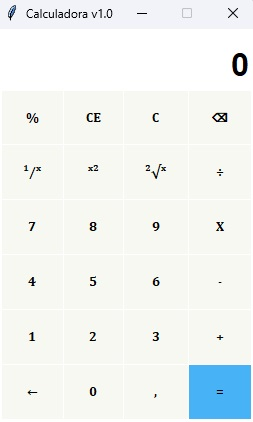
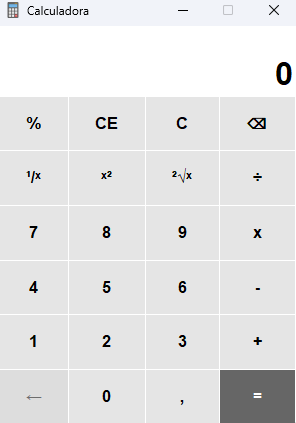
Correções na funcionalidade da calculadora

diff --git a/app/calculator.py b/app/calculator.py
@@ -1,5 +1,5 @@
 import tkinter as tk
-
+import re
 from .core import KEYBOARD
 from .core import Settings
 from .core import Calculator
@@ -9,7 +9,8 @@ class Application(tk.Tk):
         tk.Tk.__init__(self)
         self.calculate = Calculator()
         self.set = Settings()
-        self.setup(self.set.main.title, self.set.main.width, self.set.main.height)
+        self.setup()
+        self.key_up = []
 
         main_frame = tk.Frame(bg=self.set.main.background)
         main_frame.pack(side=tk.TOP, expand=True, fill=tk.BOTH)
@@ -36,57 +37,59 @@ class Application(tk.Tk):
                 self.btns[f'btn_{str(KEYBOARD[r][c])}'].grid(row=r+1, column=c, padx=(1, 0), pady=(1, 0), sticky=tk.NSEW)
 
         self.btns['btn_='].config(cnf=self.set.button_equal)
+        # Undefined Button
+        self.btns['btn_←'].configure(state='disabled', background="#dddddd")
 
 
     def button_command(self, e):
 
         button = e.widget.cget('text')
 
-        if button in [str(i) for i in range(10)]:
-            self.display_numeric(int(button))
-        elif button == "\u232B":
+        self.key_up.append(button)
+
+        last_key = self.key_up[-1]
+        
+        if last_key in ["\u00F7", 'x', '-', '+']:
+            self.set_operators(last_key)
+        elif last_key in [str(i) for i in range(10)]:
+            self.display_numeric(last_key)
+        elif last_key == ",":
+            self.set_float_point()
+        elif last_key in ['CE', 'C']:
+            self.clean_data(last_key)
+        elif last_key == "\u232B":
             self.set_backspace()
-        elif button in ["\u00F7", 'x', '-', '+']:
-            self.set_operators(button)
-        elif button in ["CE", "C"]:
-            self.clean_data(button)
-        elif button in ["¹/\u02E3", "\u02E3²", "²\u221A\u02E3"]:
-            result = self.calculate.get_x_element(self.display.get(), button)
+        elif last_key in ["¹/\u02E3", "\u02E3²", "²\u221A\u02E3"]:
+            result = self.calculate.get_x_element(self.display.get(), last_key)
             self.display.delete(0, tk.END)
             self.display.insert(0, result['display'])
             self.prev_var.set(result['preview'])
-        elif button == "%":
-            result = self.calculate.get_porcent(self.prev_var.get())
+        elif last_key == "%":
+            result = self.calculate.get_porcent(self.display.get(), self.prev_var.get())
             self.display.delete(0, tk.END)
             self.display.insert(0, result['display'])
             self.prev_var.set(result['preview'])
-        elif button == ",":
-            ...
-        elif button == "←":
-            ...
-        else:
-            result = self.calculate.eval(self.prev_var.get())
+        elif last_key == "=":
+            result = self.calculate.eval(self.display.get(), self.prev_var.get())
             self.display.delete(0, tk.END)
             self.display.insert(0, result)
-            self.prev_var.set("%s%s" % (self.prev_var.get(), '='))
-        
-            
+            self.prev_var.set("%s%s =" % (self.prev_var.get(), self.display.get()))
+
+
     def display_numeric(self, value: int):
-        if len(self.display.get()) >= 13:
+
+        if len(self.display.get()) > 14:
             return
 
         if self.display.get() == "0":
             self.display.delete(0)
-            self.display.insert(0, str(value))
-        else:
-            self.display.insert(tk.END, str(value))
-
-        express = "%s%s" % (self.prev_var.get(), self.display.get()[-1])
-        if value == 0 and len(self.display.get()) <= 1:
-            self.display.insert(tk.END, ',')
-            express = "%s%s" % (self.prev_var.get(), self.display.get())
+       
+        if len(self.key_up) > 1:
+            
+            if self.key_up[-2] in ["\u00F7", 'x', '-', '+']:
+                self.display.delete(0, tk.END)
         
-        self.prev_var.set(express)
+        self.display.insert(tk.END, value)
 
     def set_backspace(self):
 
@@ -104,40 +107,59 @@ class Application(tk.Tk):
 
     def set_operators(self, operator: str):
         
-        if self.display.get() == "0" or self.prev_var.get()[-1] == operator:
+        if self.display.get() == "0":
             return
-        
-        if self.prev_var.get()[-1] == "=":
-            self.prev_var.set("%s%s" % (self.display.get(), operator))
 
-        self.display.delete(0, tk.END)
-        self.display.insert(tk.END, 0)
+        value = self.display.get()
 
-        if self.prev_var.get()[-1] in ["\u00F7", 'x', '-', '+']:
-            new_express = self.prev_var.get()[:-1]
-            self.prev_var.set(new_express)
-        
-        express = "%s%s" % (self.prev_var.get(), operator)
-        self.prev_var.set(express)
-    
-    def clean_data(self, btn):
-
-        if btn == "CE":
-            index = self.prev_var.get().find(self.display.get())
-            if index != -1:
-                self.prev_var.set(self.prev_var.get()[:index])
+        _split_value = value.split(',')
+        if _split_value[-1] in ['', "0"]:
             self.display.delete(0, tk.END)
-            self.display.insert(tk.END, 0)
+            self.display.insert(0, _split_value[0])
+            value = _split_value[0]
+
+        self.prev_var.set("%s %s " % (value, operator))
+    
+    def set_float_point(self):
+        
+        if self.display.get().find(',') > 0:
+            return
+
+        # Last value of the display
+        value = self.display.get()[-1]
+
+        point = ","
+
+        if value == ",":
+            return
+        elif value in ["\u00F7", 'x', '-', '+']:
+            self.display.delete(0, tk.END)
+            point = "0,"
+        elif len(self.key_up) > 1:
+            if self.key_up[-2] in ["\u00F7", 'x', '-', '+']:
+                self.display.delete(0, tk.END)
+                point = "0,"
+
+        self.display.insert(tk.END, point)
+        
+    def clean_data(self, btn):
+        
+        if btn == "CE":
+            self.display.delete(0, tk.END)
+            self.display.insert(0, 0)
         else:
             self.display.delete(0, tk.END)
-            self.display.insert(tk.END, 0)
             self.prev_var.set("")
+            self.display.insert(0, 0)
 
-    def setup(self, title: str, width: int, height: int):
-        self.wm_title(title)
+    def setup(self):
+        
+        self.wm_iconbitmap(default=r'assets\calculator.ico')
+        
+        self.wm_title('Calculadora')
 
-        width = int(width)
-        height = int(height)
+        width = 300
+        height = 400
 
         w_screen = self.winfo_screenwidth()
         h_screen = self.winfo_screenheight()

diff --git a/app/core.py b/app/core.py
@@ -14,57 +14,74 @@ KEYBOARD = [["%", "CE", "C", "\u232B"],
 
 class Calculator:
     
-    def get_x_element(self, value: int, expression: str):
+    def get_x_element(self, value: str, expression: str):
+        
 
+        value = float(value.replace(',', '.'))
         if expression:
             
             calc = None
             preview = None
+            result = None
             match expression:
                 case "¹/\u02E3": # 1/x
-                    calc = 1 / float(value)
-                    preview = "1/(%s)" % value
+                    calc = 1 / value
+                    preview = "1/"
                 case "\u02E3²": # x²
-                    calc = float(value) ** 2
-                    preview = "sqr(%s)" % value
+                    calc = value ** 2
+                    preview = "sqr"
                 case "²\u221A\u02E3": # Raiz
-                    calc = float(value) ** (1/2)
-                    preview = "\u221A(%s)" % value
+                    calc = value ** (1/2)
+                    preview = "\u221A"
 
+            if value.is_integer():
+                prev = "%s( %s )" % (preview, str(int(value)))
+            else:
+                prev = "%s( %s )" % (preview, str(value).replace('.', ','))
+            
+            
             if calc.is_integer():
-                return {"display": int(calc), 'preview': preview}
-            
-            point = len(str(calc).split('.')[-1] )
-            result = "%.{0}f".format(point if point <= 14 else 14) % calc
-            
-            return {"display": result.replace('.', ','), 'preview': preview}
+                result = {"display": int(calc), 'preview': prev}
+            else:
+                point = len(str(calc).split('.')[-1] )
+                format = "%.{0}f".format(point if point <= 14 else 14) % calc
 
-    #TODO Semantic Error
-    #Fix somes result is returning wrong values
-    def get_porcent(self, calc):
+                result = {"display": format.replace('.', ','), 'preview': prev}
+            
+            return result
+
+    def get_porcent(self, display, preview):
         
-        _all = calc[:1]
-        _part = calc[-1]
-        
-        if _all.isnumeric():
+        result = "0"
+        new_expression = "0"
+        if preview:
+
+            operators = ['+', '-', 'x', '÷']
+
+            exp = re.compile('|'.join('(?:{})'.format(re.escape(i)) for i in sorted(operators, reverse=True, key=len)))
+            op = exp.search(preview).group()
+            
+            _all = preview.split(op)[0].strip()
+            _part = display.replace(',', '.')
+
             # % = (Parte / Todo) x 100
             porc = (float(_part) * float(_all)) / 100
 
-        new_expression = str(porc).replace('.', ',')
+            result = str(porc).replace('.', ',')
+            new_expression = "%s%s" % (preview, porc)
 
-        return {"display": new_expression, "preview": "%s%s" % (calc[:-1], porc)}
+        return { "display": result, "preview": new_expression }
         
-    def eval(self, calc):
-        
+    def eval(self, display, preview):
+
         try:
-            value = self._normalizate_expression(calc)
+            value = self._normalizate_expression(display, preview)
         except ZeroDivisionError:
             value = "Error"
         finally:
             return value
         
-
-    def _normalizate_expression(self, expression: str):
+    def _normalizate_expression(self, display: str, preview: str):
         
         operators = ['+', '-', 'x', '÷']
 
@@ -72,22 +89,21 @@ class Calculator:
         
         _split_exp = ""
         _new_exp = ""
-        find_op = exp.findall(expression)
+        find_op = exp.findall(preview)
         if len(find_op) > 0:
             for op in find_op:
-                _split_exp = expression.split(op)
+                _split_exp = preview.split(op)
                 if op == "÷":
                     _op = "/"
                 elif op == "x":
                     _op = "*"
                 else:
                     _op = op
-                _new_exp = "%s%s%s" % (_split_exp[0], _op, _split_exp[1])
-        
+                _new_exp = "%s%s%s" % (_split_exp[0].strip(), _op, display)
         
         result = eval(_new_exp)
         point = len(str(result).split('.')[-1] )
-
+#
         if isinstance(result, int):
             return result
         
@@ -107,6 +123,7 @@ class Dict(dict):
                 return super().__getattribute__(name)
         except AttributeError:
             pass
+
 
 class Settings:
     data = Path(r'app\DATA.ini')
